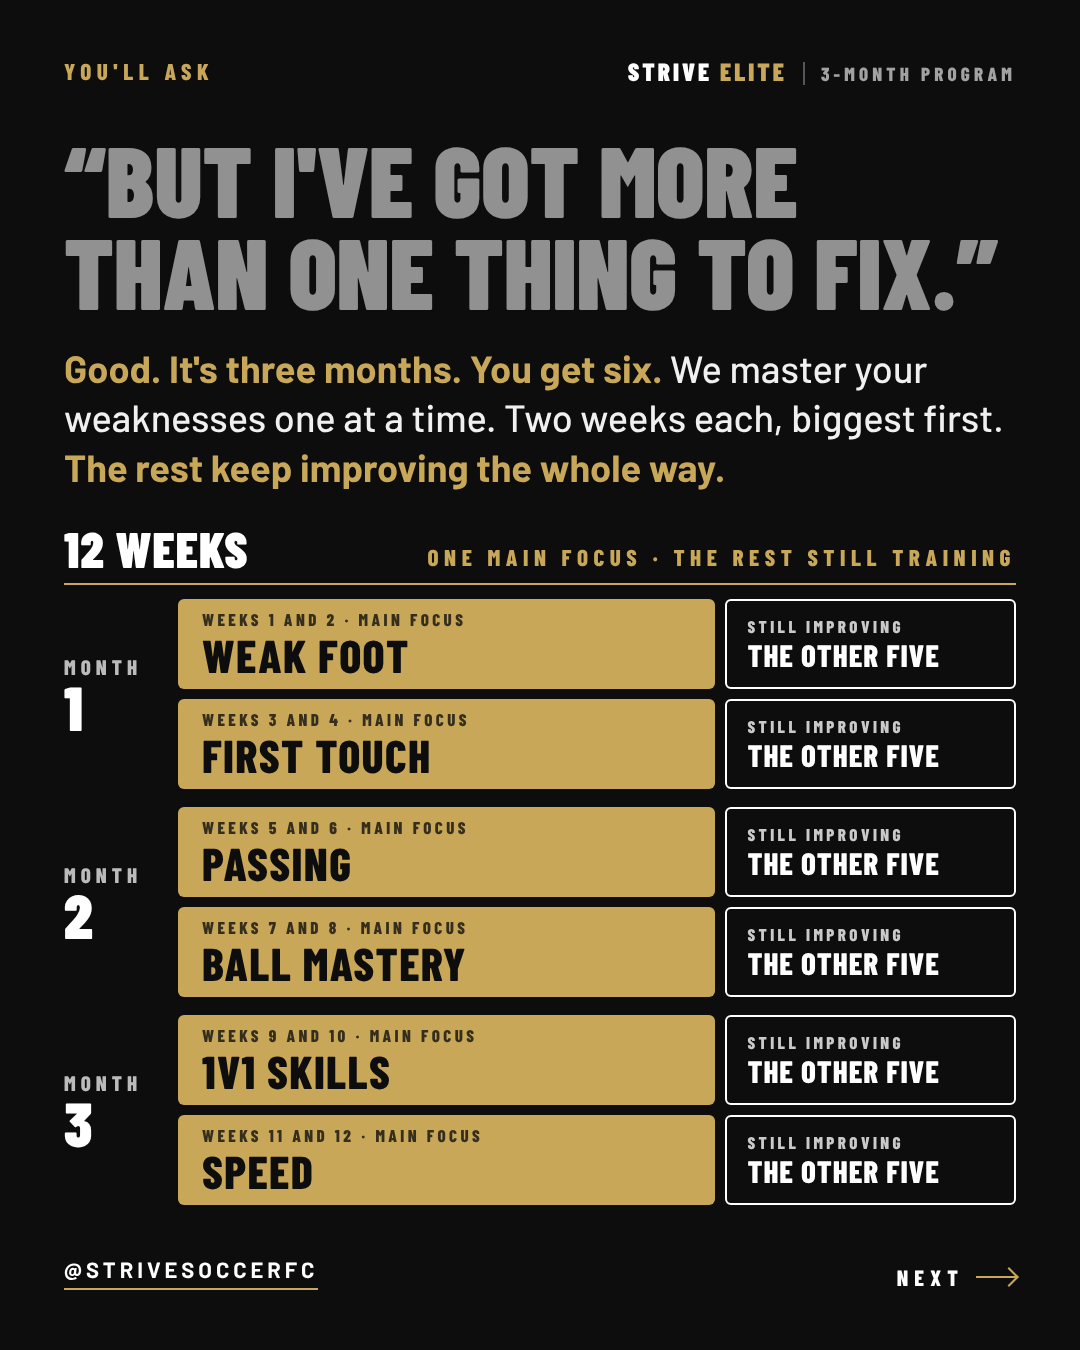
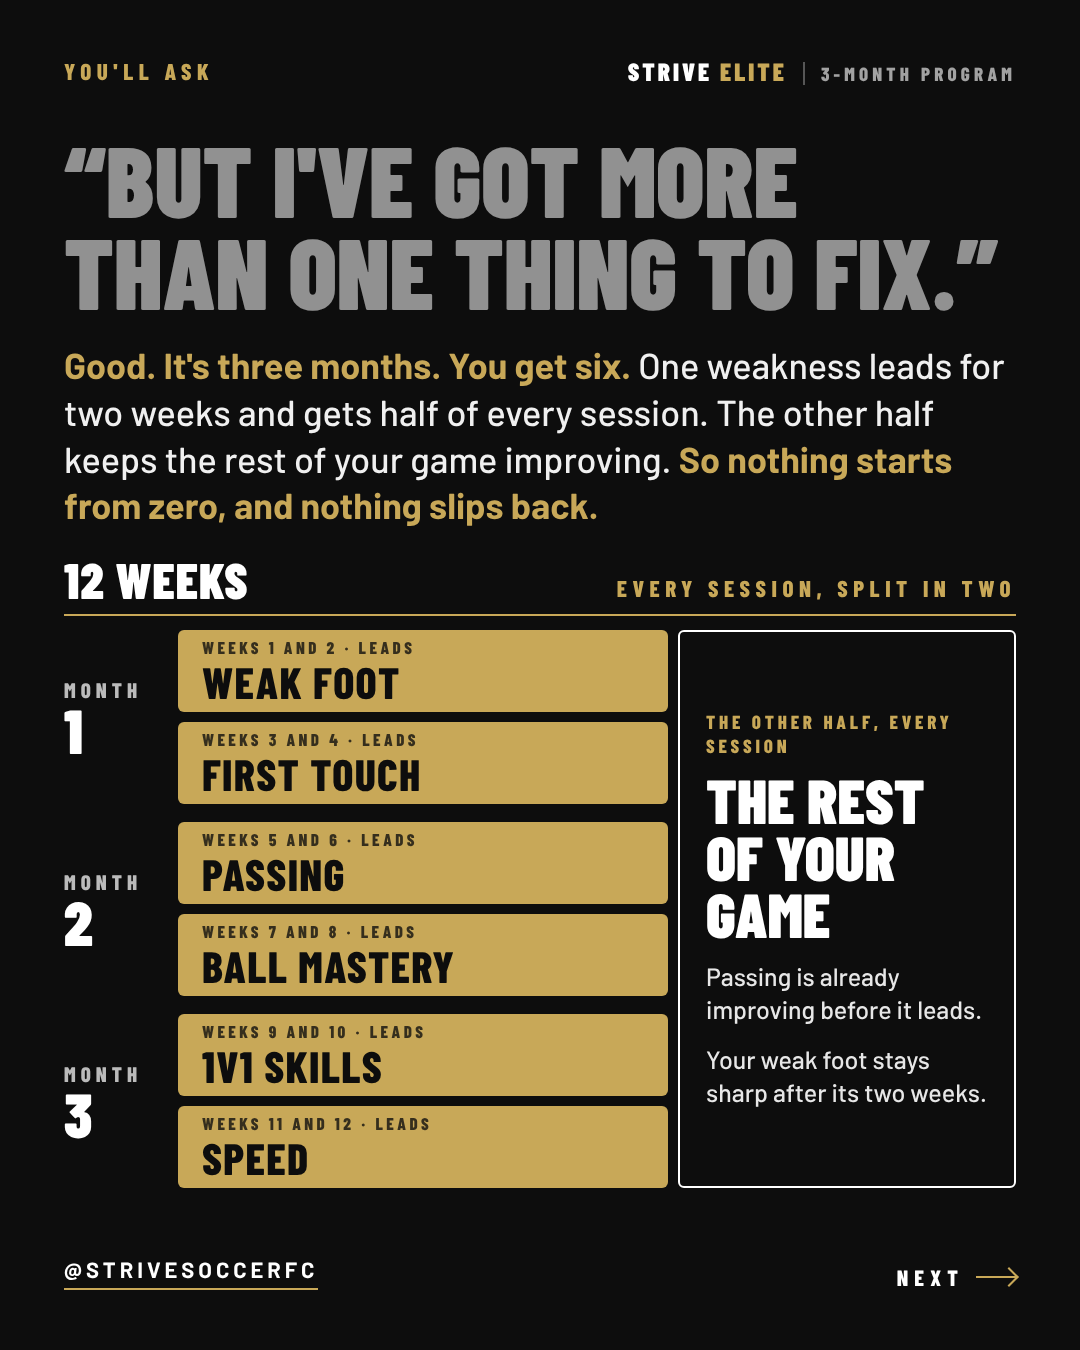
Opinion carousel: slide 8 drops 'the other five', shows the session split and what it does
Claude-Session: https://claude.ai/code/session_011JsCTTjCbUkHbTuWTKQSXJ

diff --git a/marketing/program/one-thing-carousel-3/08-six.html b/marketing/program/one-thing-carousel-3/08-six.html
@@ -1,25 +1,29 @@
 <!doctype html><meta charset="utf-8"><link rel="stylesheet" href="../../covers/strive-elite-meeting/fonts.css"><link rel="stylesheet" href="style.css"><title>More than one thing</title>
 <style>
-.q{font-size:100px}.a{margin-top:28px;font-size:38px;line-height:1.3}
-.sched{margin-top:34px}
+.q{font-size:100px}.a{margin-top:26px;font-size:36px;line-height:1.3}
+.sched{margin-top:28px}
 .hd{padding-bottom:12px;margin-bottom:14px}
-.g6{display:grid;grid-template-columns:104px 1.85fr 1fr;gap:10px 10px}
-.g6 .lb{grid-row:span 2;display:flex;flex-direction:column;justify-content:center;font-family:'Barlow Condensed';font-weight:800;font-size:21px;letter-spacing:.24em;text-transform:uppercase;color:rgba(255,255,255,.72)}
+.g6{display:grid;grid-template-columns:104px 1.45fr 1fr;gap:10px 10px}
+.g6 .lb{grid-column:1;grid-row:span 2;display:flex;flex-direction:column;justify-content:center;font-family:'Barlow Condensed';font-weight:800;font-size:21px;letter-spacing:.24em;text-transform:uppercase;color:rgba(255,255,255,.72)}
 .g6 .lb b{font-weight:900;font-size:62px;line-height:.9;letter-spacing:0;color:#fff}
-.g6 .bk{height:90px;font-size:46px;padding:0 24px}
+.g6 .bk{grid-column:2;height:82px;font-size:44px;padding:0 24px}
 .g6 .bk small{font-size:17px;letter-spacing:.2em;margin-bottom:4px;opacity:.78}
-.g6 .bk.w{font-size:31px;border-width:2px;padding:0 20px}
 .g6 .sp{margin-top:8px}
+.g6 .tall{grid-column:3;grid-row:1 / span 6;height:auto;align-self:stretch;border:2px solid #fff;border-radius:6px;display:flex;flex-direction:column;justify-content:center;padding:0 26px}
+.tall small{font-family:'Barlow Condensed';font-weight:800;font-size:19px;line-height:1.25;letter-spacing:.2em;text-transform:uppercase;color:#c8a858}
+.tall b{display:block;margin-top:14px;font-family:'Barlow Condensed';font-weight:900;font-size:62px;line-height:.92;text-transform:uppercase;color:#fff}
+.tall i{display:block;margin-top:18px;font-style:normal;font-weight:500;font-size:25px;line-height:1.3;color:rgba(255,255,255,.9)}
 </style>
 <div class="top"><div class="step">You'll ask</div><div class="wm">Strive <span>Elite</span><em>3-month program</em></div></div>
 <div class="pad"><div class="q">&ldquo;But I've got more than one thing to fix.&rdquo;</div>
-<p class="p a"><b>Good. It's three months. You get six.</b> We master your weaknesses one at a time. Two weeks each, biggest first. <b>The rest keep improving the whole way.</b></p>
-<div class="sched"><div class="hd"><b>12 weeks</b><span>One main focus &middot; the rest still training</span></div><div class="g6">
-<div class="lb">Month<b>1</b></div><div class="bk g"><small>Weeks 1 and 2 &middot; main focus</small>Weak foot</div><div class="bk w"><small>Still improving</small>The other five</div>
-<div class="bk g"><small>Weeks 3 and 4 &middot; main focus</small>First touch</div><div class="bk w"><small>Still improving</small>The other five</div>
-<div class="lb sp">Month<b>2</b></div><div class="bk g sp"><small>Weeks 5 and 6 &middot; main focus</small>Passing</div><div class="bk w sp"><small>Still improving</small>The other five</div>
-<div class="bk g"><small>Weeks 7 and 8 &middot; main focus</small>Ball mastery</div><div class="bk w"><small>Still improving</small>The other five</div>
-<div class="lb sp">Month<b>3</b></div><div class="bk g sp"><small>Weeks 9 and 10 &middot; main focus</small>1v1 skills</div><div class="bk w sp"><small>Still improving</small>The other five</div>
-<div class="bk g"><small>Weeks 11 and 12 &middot; main focus</small>Speed</div><div class="bk w"><small>Still improving</small>The other five</div>
+<p class="p a"><b>Good. It's three months. You get six.</b> One weakness leads for two weeks and gets half of every session. The other half keeps the rest of your game improving. <b>So nothing starts from zero, and nothing slips back.</b></p>
+<div class="sched"><div class="hd"><b>12 weeks</b><span>Every session, split in two</span></div><div class="g6">
+<div class="tall"><small>The other half, every session</small><b>The rest of your game</b><i>Passing is already improving before it leads.</i><i>Your weak foot stays sharp after its two weeks.</i></div>
+<div class="lb">Month<b>1</b></div><div class="bk g"><small>Weeks 1 and 2 &middot; leads</small>Weak foot</div>
+<div class="bk g"><small>Weeks 3 and 4 &middot; leads</small>First touch</div>
+<div class="lb sp">Month<b>2</b></div><div class="bk g sp"><small>Weeks 5 and 6 &middot; leads</small>Passing</div>
+<div class="bk g"><small>Weeks 7 and 8 &middot; leads</small>Ball mastery</div>
+<div class="lb sp">Month<b>3</b></div><div class="bk g sp"><small>Weeks 9 and 10 &middot; leads</small>1v1 skills</div>
+<div class="bk g"><small>Weeks 11 and 12 &middot; leads</small>Speed</div>
 </div></div></div>
 <div class="handle">@strivesoccerfc</div><div class="swipe">Next <i></i></div>

diff --git a/CLAUDE.md b/CLAUDE.md
@@ -4038,6 +4038,7 @@ commit.
       THEN (Coach Yinka: "to jog not a jog"): the comeback slide's set-up reads "Two months before preseason, I was cleared to get touches and to jog. Nothing else." Re-rendered and sent; nothing else changed.
       THEN (Coach Yinka: "for the theres more than drills slide the copy under pick a time should be more attractive highlighting the attention on them"): on slide 11 the line under "Pick a time" in the check-in card is "30 minutes, one on one. All of it on your game." (the second sentence in white), replacing "One call a month. Tap a time to book it." The 30 minutes is his Nov 5 example and matches the 9:00 / 9:30 times shown; the coach sets the length per day in the app. THE APP'S OWN CARD STILL SAYS THE OLD LINE (CheckinBooking.tsx); changing it to match is one line, on his word. Re-rendered and sent; nothing else changed. Not posted.
       THEN (Coach Yinka, with a screenshot of the six-focus slide: "make it clear that we are focusing on mastering weaknesses 1 by 1 periodically while improving the others simultainiusly"): SLIDE 8 REBUILT (08-six). Copy: "Good. It's three months. You get six. We master your weaknesses one at a time. Two weeks each, biggest first. The rest keep improving the whole way." Graphic: 12 WEEKS, "One main focus, the rest still training", six rows in the story slide's colours, each a gold block (Weeks 1 and 2, main focus: WEAK FOOT, and so on through first touch, passing, ball mastery, 1v1 skills, speed) beside a white block "Still improving: THE OTHER FIVE", grouped by month. The line about Coach Gary and him asking what holds the player back is off this slide (the close still says the three months are built by both). Re-rendered and sent; the other eleven unchanged. Not posted.
+      THEN (Coach Yinka: "the other 5 might not make the most sense lets have the copy make it click for the reader like ah ha that would work. not, the other 5??"): "THE OTHER FIVE" IS GONE from slide 8. The click is now stated as how a session is split and what that does: "Good. It's three months. You get six. One weakness leads for two weeks and gets half of every session. The other half keeps the rest of your game improving. So nothing starts from zero, and nothing slips back." Graphic, header 12 WEEKS / EVERY SESSION, SPLIT IN TWO: six gold blocks down the left, one per two weeks, each marked "leads"; ONE tall white block down the right running beside all twelve weeks, "The other half, every session: THE REST OF YOUR GAME. Passing is already improving before it leads. Your weak foot stays sharp after its two weeks." "Half of every session" follows the carousel's own count (two of four drills, his Nov 11 call; the app builds two of three skill drills). COPY LESSON: a count of leftovers ("the other five") is a label; say what happens to the reader's game instead. Re-rendered and sent; the other eleven unchanged. Not posted.
 
 ## Skills (use them without being asked)
 

diff --git a/marketing/program/one-thing-carousel-3/README.md b/marketing/program/one-thing-carousel-3/README.md
@@ -76,12 +76,16 @@ the strength finisher or the speed drill.
    once fitness and speed started, and never said he was forced into one
    thing at a time, which is where the structure comes from.)
 8. "BUT I'VE GOT MORE THAN ONE THING TO FIX." / Good. It's three months.
-   You get six. We master your weaknesses one at a time. Two weeks each,
-   biggest first. The rest keep improving the whole way. / 12 WEEKS, one
-   main focus, the rest still training: six rows, each a gold block (the
-   main focus for those two weeks: weak foot, first touch, passing, ball
-   mastery, 1v1 skills, speed) beside a white block "Still improving:
-   the other five". Same gold and white as his story slide before it.
+   You get six. One weakness leads for two weeks and gets half of every
+   session. The other half keeps the rest of your game improving. So
+   nothing starts from zero, and nothing slips back. / 12 WEEKS, every
+   session split in two: six gold blocks down the left, one per two
+   weeks, each marked "leads" (weak foot, first touch, passing, ball
+   mastery, 1v1 skills, speed); ONE tall white block down the right,
+   running beside all twelve weeks: "The other half, every session: THE
+   REST OF YOUR GAME. Passing is already improving before it leads. Your
+   weak foot stays sharp after its two weeks." ("The other five" was
+   rejected by him: it did not make the idea click.)
 9. "SO IT'S ONLY WEAK FOOT FOR TWO WEEKS?" / NO. Two drills on your weak
    foot. Two on the rest of your game. A different part every session, so
    nothing goes cold while your weak foot catches up. (The app's session:
